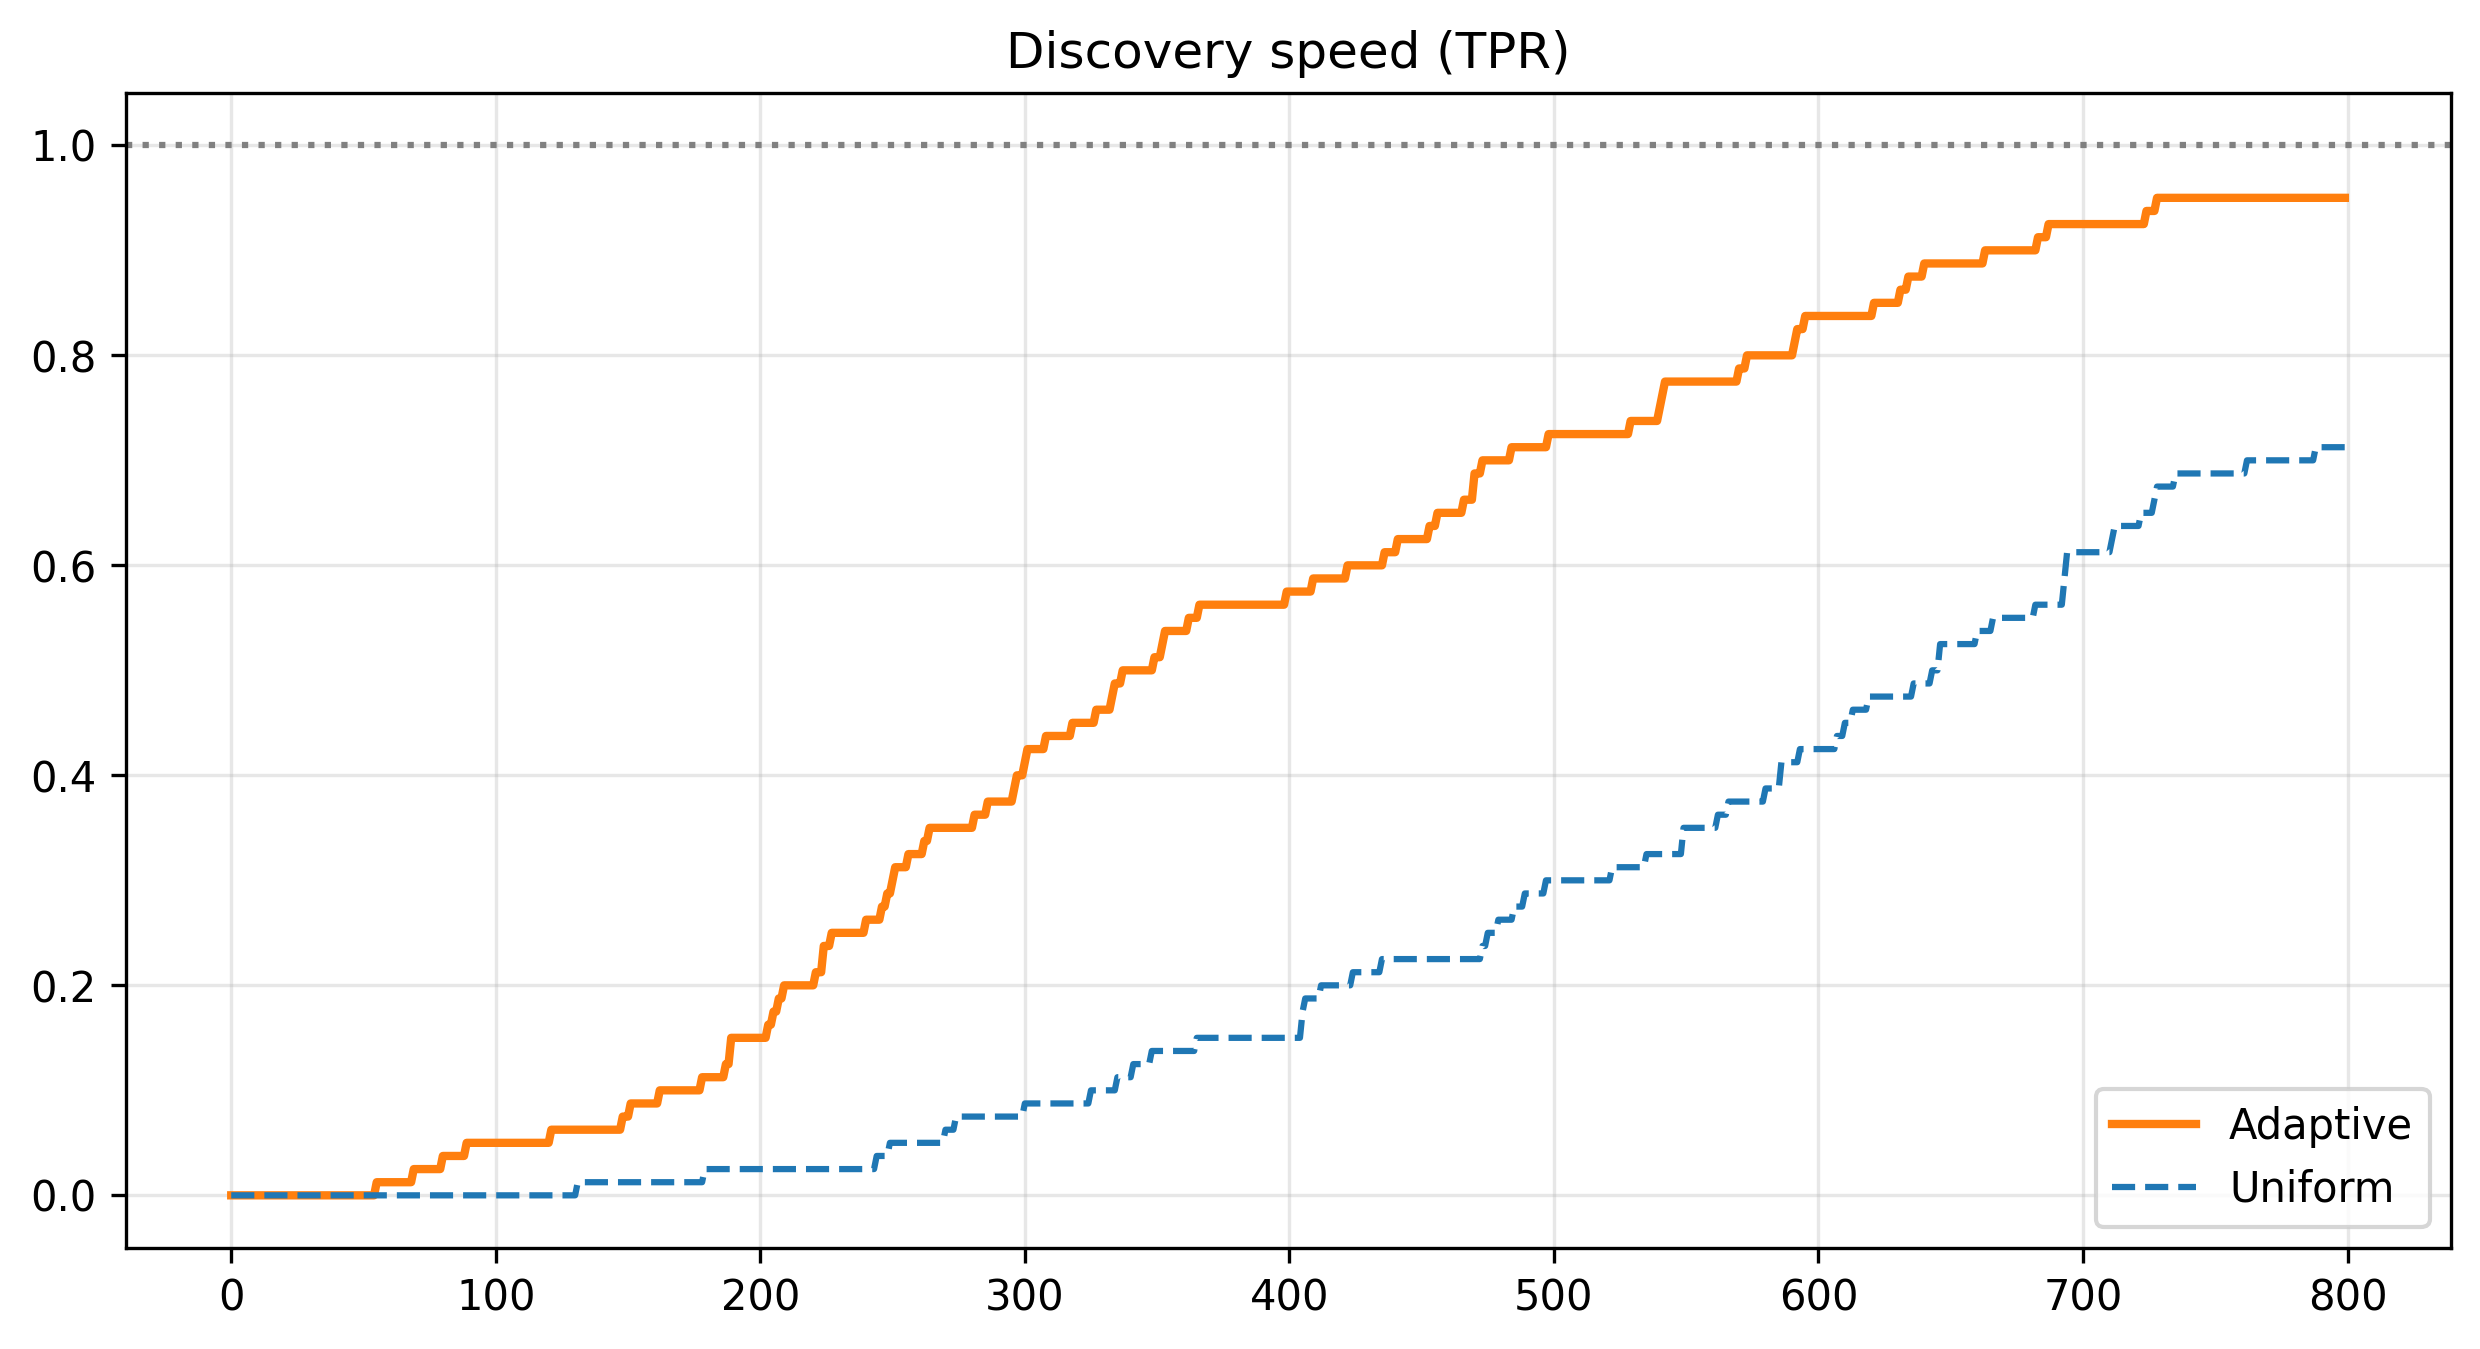
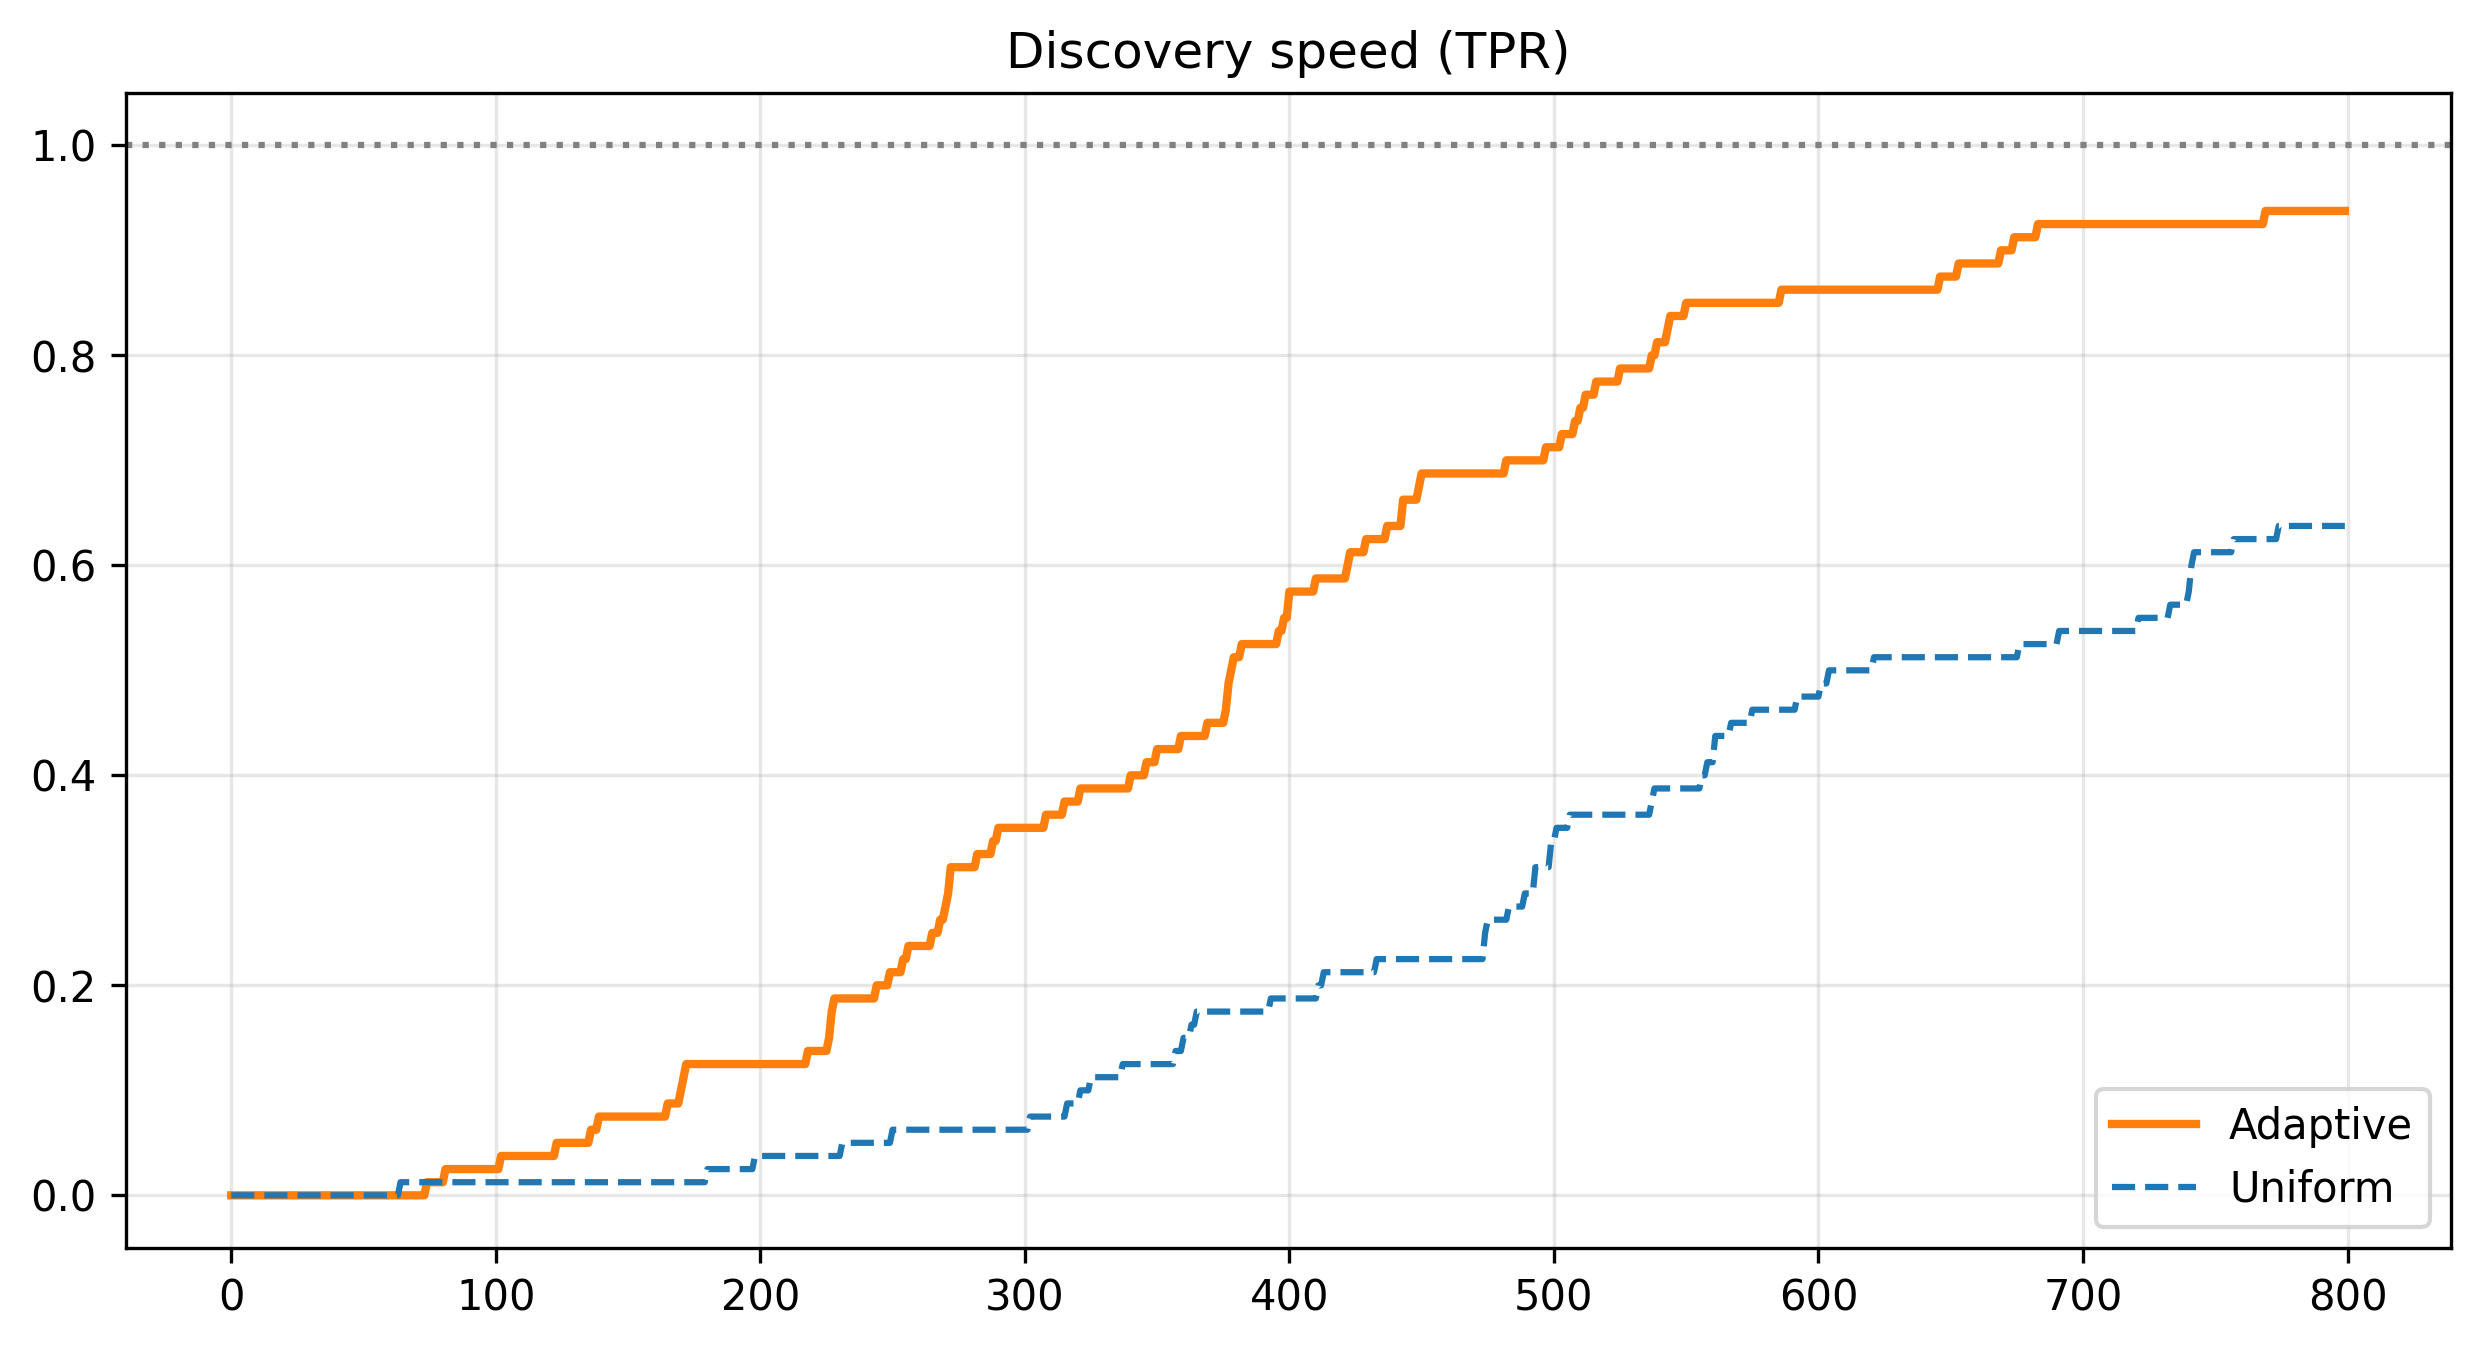
Added the test with 30 pulls and its graph

diff --git a/backend/real_time_algorithm.py b/backend/real_time_algorithm.py
@@ -8,7 +8,7 @@ np.random.seed(1234)
 # PART 1: THE ALGORITHM
 # -----------------------------------------------------------------------------
 class JamiesonJainAlgo:
-    def __init__(self, n_arms, mu_0, delta):
+    def __init__(self, n_arms, mu_0, delta, init_pulls=1):
         """
         Initializes the adaptive bandit algorithm.
 
@@ -20,10 +20,13 @@ class JamiesonJainAlgo:
             The baseline threshold. We want to identify arms with mean > mu_0.
         delta : float
             The confidence level / False Discovery Rate (FDR) parameter (e.g., 0.05).
+        init_pulls : int, optional
+            Number of initial pulls per arm before running adaptive phase (default=1).
         """
         self.n = n_arms
         self.mu_0 = mu_0
         self.delta = delta
+        self.init_pulls = init_pulls
         
         self.counts = np.zeros(n_arms, dtype=int)
         self.emp_means = np.zeros(n_arms, dtype=float)
@@ -72,7 +75,7 @@ class JamiesonJainAlgo:
         Determines which arm to pull next based on the UCB strategy.
 
         Strategy:
-        1. If t < n, pull every arm once for initialization.
+        1. During initialization phase, cycle through arms.
         2. Identify candidate arms (those NOT yet in the discovery set S_t).
         3. If no candidates remain, return "stop".
         4. Otherwise, select the candidate with the highest Upper Confidence Bound (UCB).
@@ -82,8 +85,10 @@ class JamiesonJainAlgo:
         int or str
             The index of the arm to pull, or "stop" if all arms are discovered.
         """
-        if self.time < self.n:
-            return self.time
+        # Initialization phase: cycle through arms
+        init_phase_end = self.n * self.init_pulls
+        if self.time < init_phase_end:
+            return self.time % self.n
         
         candidates = [i for i in range(self.n) if i not in self.S_t]
         
@@ -441,7 +446,7 @@ class UniformAlgo:
 # PART 2: SIMULATION ENGINE
 # -----------------------------------------------------------------------------
 
-def run_experiment(true_means, horizon, mode, n_simulations=20): #attention mettre seed pour stabiliser
+def run_experiment(true_means, horizon, mode, n_simulations=20, init_pulls=1): #attention mettre seed pour stabiliser
     """
     Runs Monte-Carlo simulations to evaluate the performance of the bandit algorithm.
 
@@ -461,6 +466,8 @@ def run_experiment(true_means, horizon, mode, n_simulations=20): #attention mett
     n_simulations : int, optional
         The number of independent Monte-Carlo simulations to run for averaging results 
         (default is 20).
+    init_pulls : int, optional
+        Number of initial pulls per arm (default is 1).
 
     Returns
     -------
@@ -487,13 +494,13 @@ def run_experiment(true_means, horizon, mode, n_simulations=20): #attention mett
     counts_evolution_sum = np.zeros((horizon + 1, n_arms))
     counts_list=[]
 
-    print(f"Simulation Mode: {mode.upper()} ({n_simulations} runs)")
+    print(f"Simulation Mode: {mode.upper()} ({n_simulations} runs, init_pulls={init_pulls})")
     
     for no_sim in tqdm(range(n_simulations)):
         all_data=[[] for i in range(n_arms)]
 
         if mode=='adaptive':
-            algo = JamiesonJainAlgo(n_arms, mu_0, delta)
+            algo = JamiesonJainAlgo(n_arms, mu_0, delta, init_pulls=init_pulls)
         elif mode=='uniform':
             algo = UniformAlgo(n_arms, mu_0, delta)
         else:
@@ -574,6 +581,12 @@ if __name__ == "__main__":
     tpr_unif, _, counts_unif_mean, counts_unif_list, all_data = run_experiment(true_means, horizon, 'uniform', n_sims)
     tpr_adapt, _, counts_adapt_mean, counts_adapt_list, all_data = run_experiment(true_means, horizon, 'adaptive', n_sims)
     
+    # Test with 30 initial pulls
+    print("\n" + "="*70)
+    print("Testing with 30 initial pulls")
+    print("="*70)
+    tpr_adapt_30, _, counts_adapt_mean_30, counts_adapt_list_30, all_data = run_experiment(true_means, horizon, 'adaptive', n_sims, init_pulls=30)
+    
     # --- PLOT 1: TPR ---
     plt.figure(1, figsize=(10, 5))
     plt.plot(tpr_adapt, label='Adaptive', color='#ff7f0e', linewidth=2)
@@ -643,3 +656,17 @@ if __name__ == "__main__":
     
     plt.tight_layout()
     plt.savefig(git_root / "figure_real_time/figure3.png", dpi=300, bbox_inches="tight")
+    
+    # --- PLOT 4: COMPARISON init_pulls=1 vs init_pulls=30 ---
+    plt.figure(4, figsize=(12, 5))
+    plt.plot(tpr_adapt, label='init_pulls=1', color='#1f77b4', linewidth=2)
+    plt.plot(tpr_adapt_30, label='init_pulls=30', color='#ff7f0e', linewidth=2)
+    plt.axhline(y=1.0, color='gray', linestyle=':', alpha=0.5)
+    plt.title("Impact of Initialization: init_pulls=1 vs init_pulls=30")
+    plt.xlabel("Time (t)")
+    plt.ylabel("True Positive Rate (TPR)")
+    plt.legend()
+    plt.grid(True, alpha=0.3)
+    plt.tight_layout()
+    plt.savefig(git_root / "figure_real_time/figure4_init_comparison.png", dpi=300, bbox_inches="tight")
+    print("\nFigure 4 saved: figure4_init_comparison.png")
